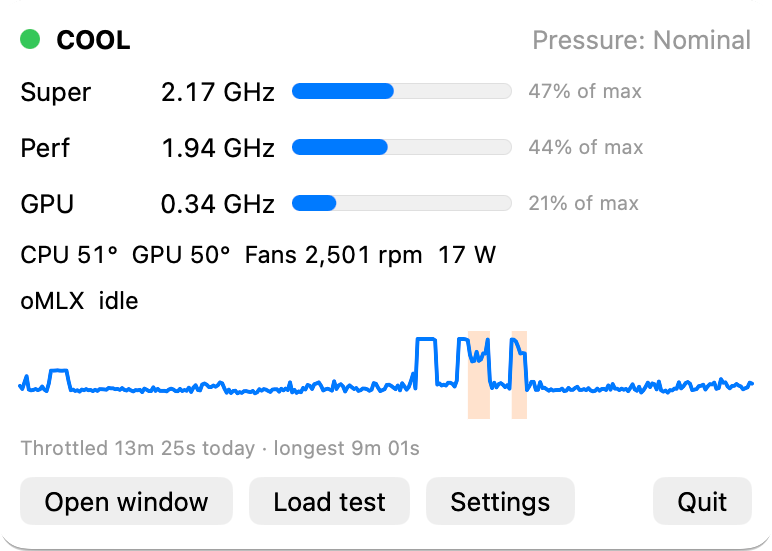
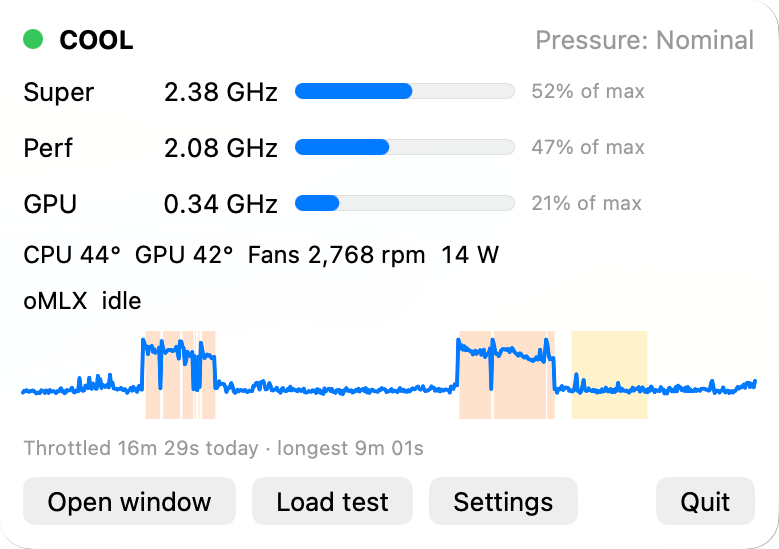
docs: refresh README screenshots after the GPU cap rule
Claude-Session: https://claude.ai/code/session_01CAkB4LKRVB3HEQACFmxDog

diff --git a/README.md b/README.md
@@ -8,13 +8,13 @@ can overlay tokens/sec from a local [oMLX](https://github.com/jundot/omlx) serve
 
 Everything runs locally. No `sudo`, no helper daemon, no network access beyond an optional loopback call to oMLX.
 
-<img src="docs/images/popover.png" width="386" alt="ThermalWatch menu-bar popover showing state Cool, nominal pressure, Super, Perf and GPU clocks as a share of peak, temperatures, fan speed, power, oMLX status and time throttled today">
+<img src="docs/images/popover.png" width="390" alt="ThermalWatch menu-bar popover showing state Cool, nominal pressure, Super, Perf and GPU clocks as a share of peak, temperatures, fan speed, power, oMLX status and time throttled today">
 
-*The menu-bar popover: current state, clock speed of each part as a share of peak, temperatures, fans, power and oMLX status.*
+*The menu-bar popover: current state, clock speed of each part as a share of peak, temperatures, fans, power, oMLX status, and the last 10 minutes with throttled stretches shaded.*
 
 ![ThermalWatch history window showing ten minutes of clocks, temperatures, fans, power and oMLX tokens/sec, with throttled stretches shaded orange and a list of throttle events](docs/images/history-window.png)
 
-*Ten minutes of history on an M5 Max. A burst of heavy work at 4:20 PM pushed both dies to about 95 °C and caused two short throttle events, shaded on every chart and listed on the right.*
+*Ten minutes of history on an M5 Max. Two bursts of heavy CPU and GPU work while oMLX was generating pushed both dies to about 100 °C and held clocks down (orange). macOS raised thermal pressure to Moderate (yellow) just after the second, while the chip cooled.*
 
 ## Features
 
